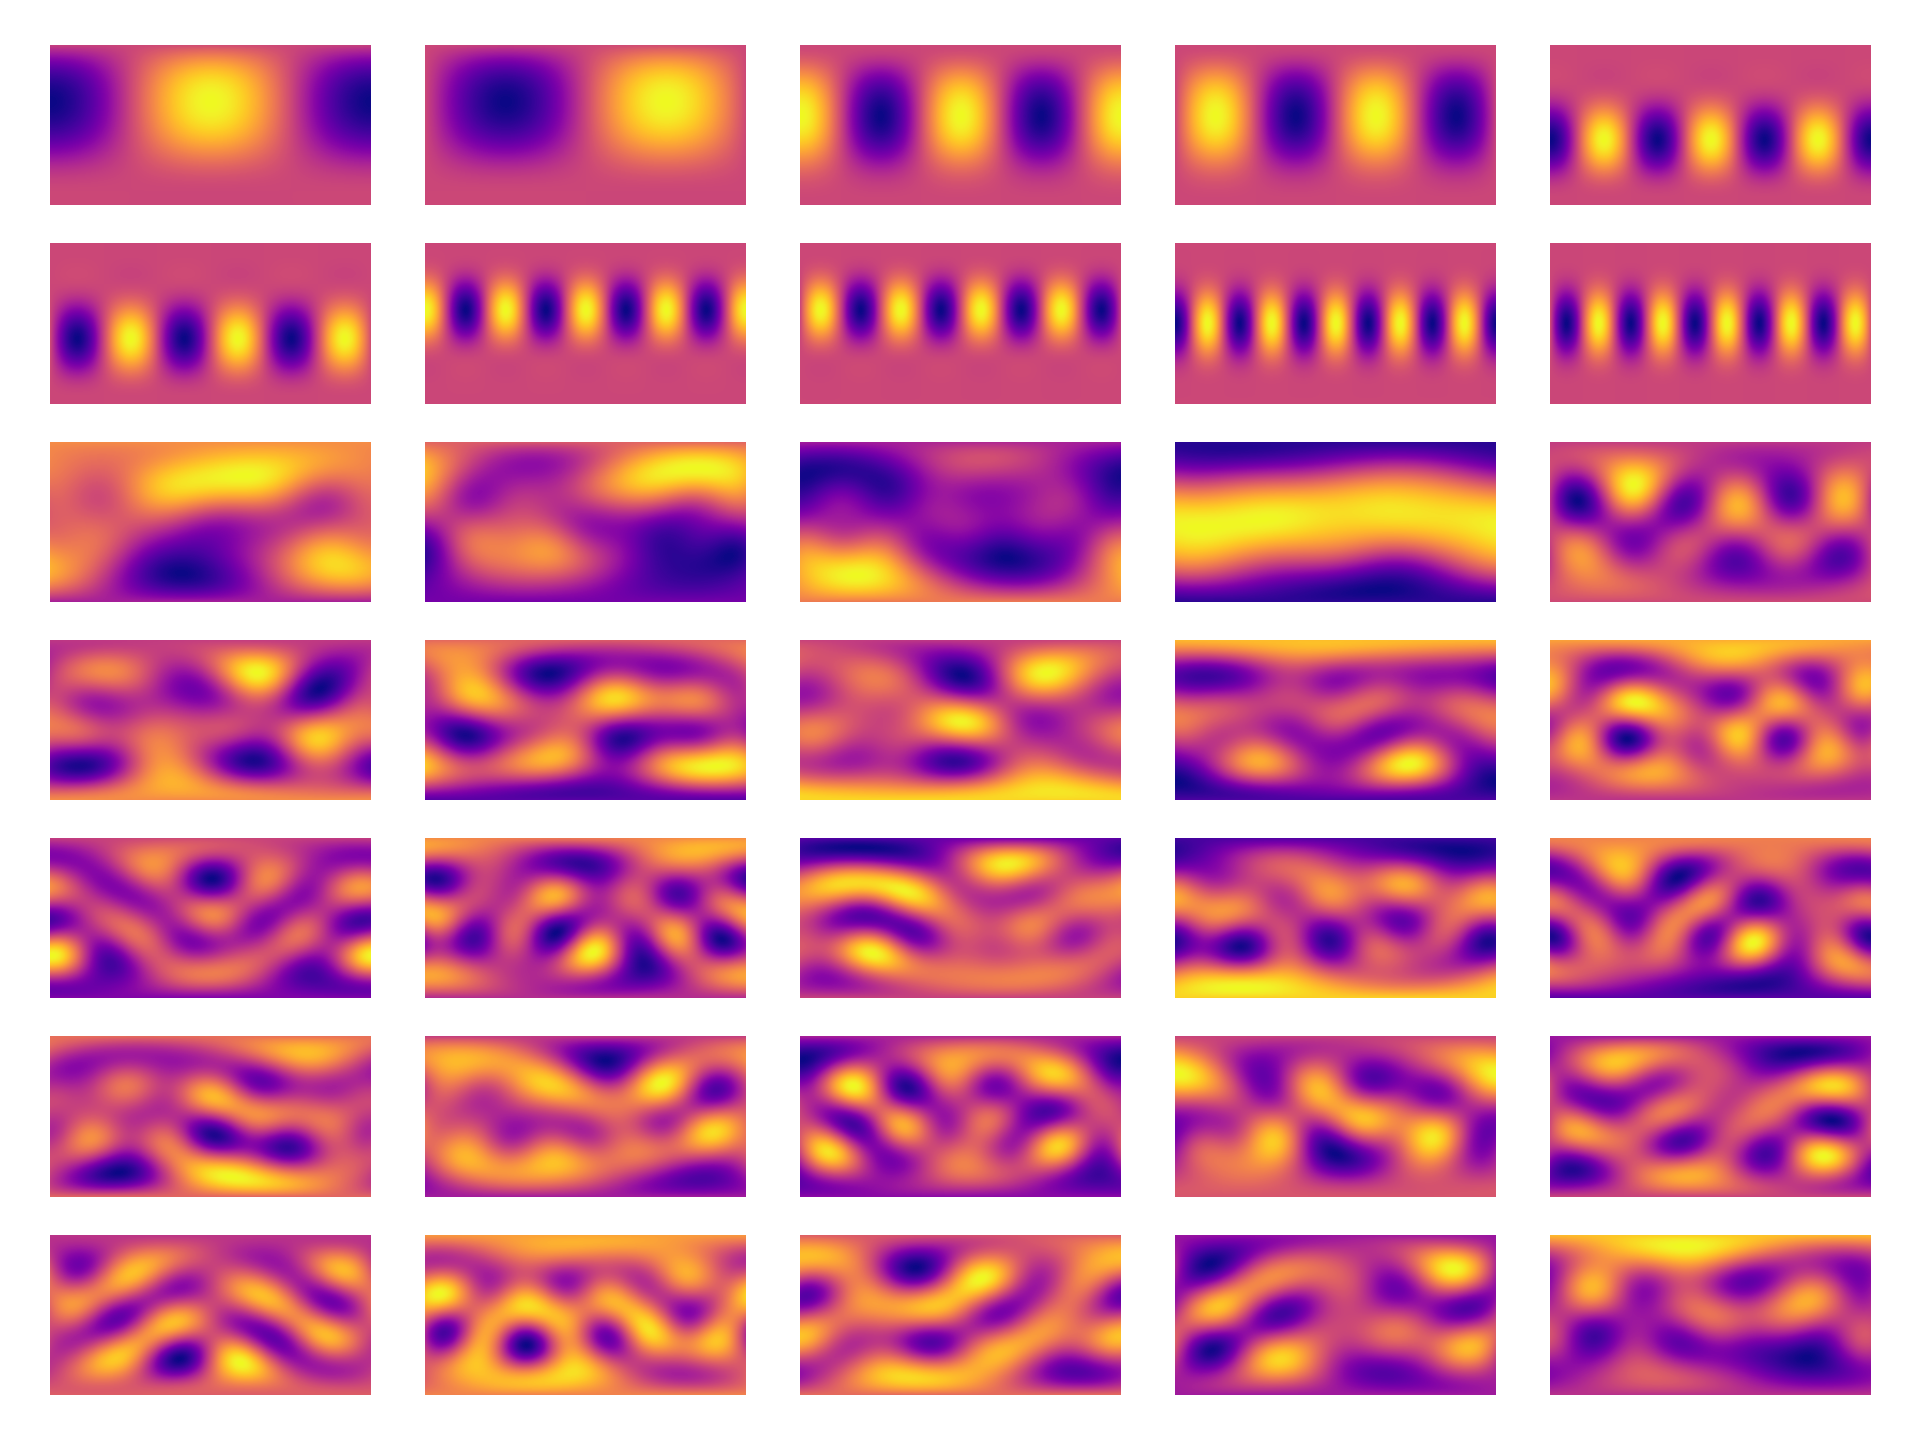
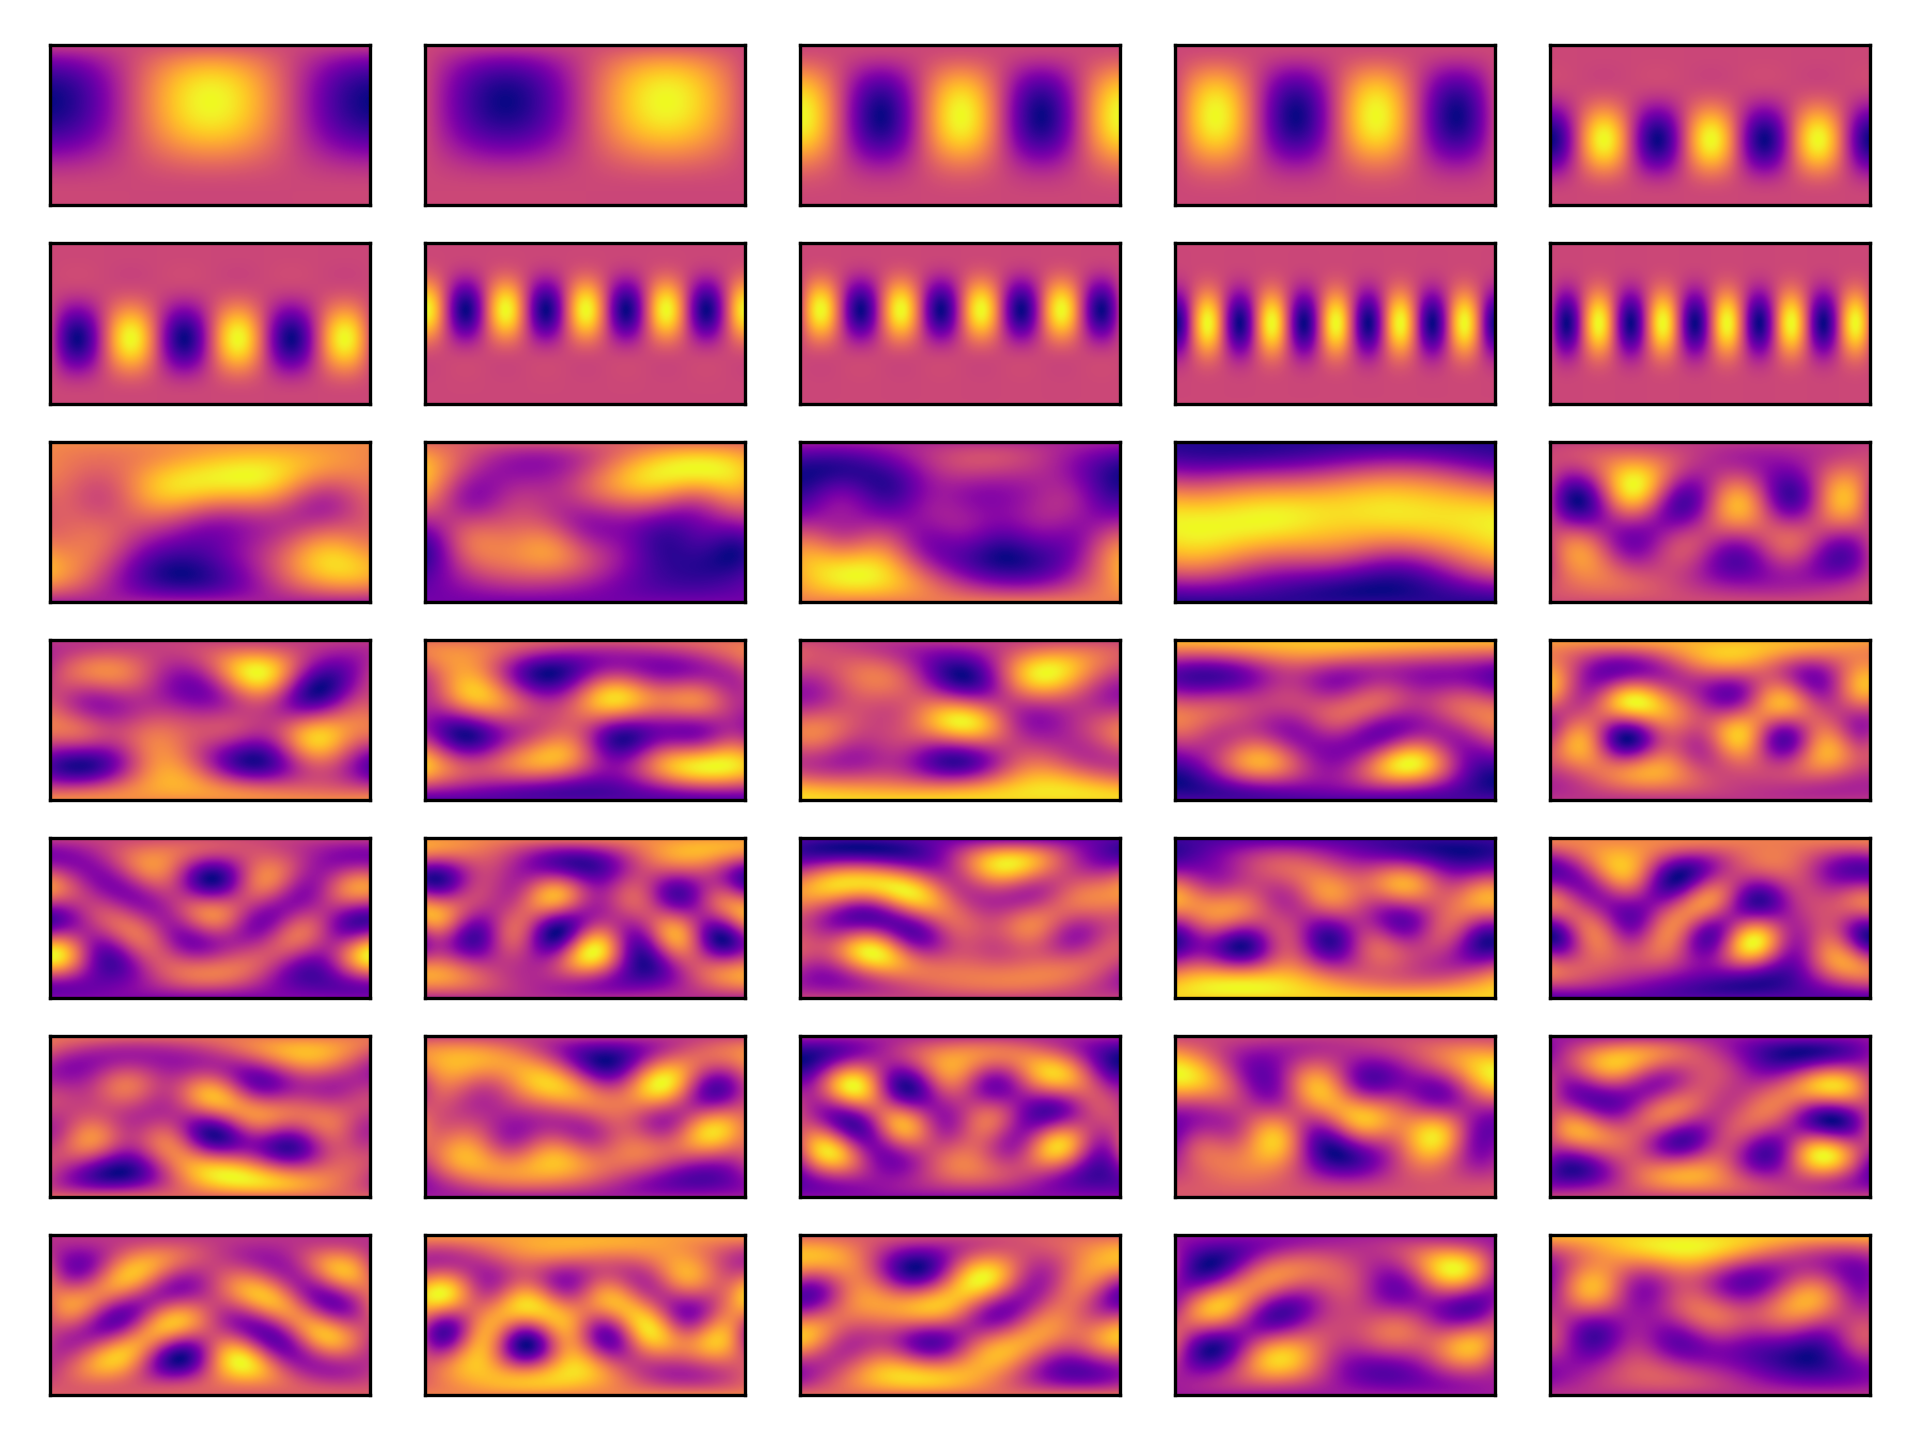
removed larged animations, added obliquity, and cleaned up create_rv some more

diff --git a/create_emaps.py b/create_emaps.py
@@ -132,6 +132,7 @@ def emap_plot(star, indiv_path=None, proj='rect', other_fname=None,
                 plt.colorbar()
             plt.tight_layout()
             plt.savefig(f"{indiv_path}/{fname}", dpi = 300, transparent=transparent)
+            plt.close(temp_fig)
             pass
         else:
             star.map.show(theta=0,projection=proj,rv=False,file=f"{indiv_path}/{fname}",
@@ -140,12 +141,10 @@ def emap_plot(star, indiv_path=None, proj='rect', other_fname=None,
         star.map.show(theta=0,projection=proj,rv=False,
                         dpi=300,transparent=transparent, colorbar=colorbar)
     
-    plt.close("all")
-    
 
 def create_emaps(star, eigeny, emaps_path=None, proj='rect', 
-                 transparent=False, labels=False, individual=True,
-                 colorbar=True, smooth=True):
+                 transparent=False, labels=False, border=False, 
+                 individual=True, colorbar=True, smooth=True):
     
     """
     Function generates various plots associated with the eigenmaps (emaps)  
@@ -176,6 +175,9 @@ def create_emaps(star, eigeny, emaps_path=None, proj='rect',
 
     labels: boolean (optional)
         Wether to add axis and title labels to overall plot.  Default to False
+
+    border: boolean (optional)
+        Wether to add border around each axis plot.  Default to False
 
     indiviudal: boolean (optional)
         If True, will generate individual emap plots along with overall.  Default is True
@@ -246,10 +248,19 @@ def create_emaps(star, eigeny, emaps_path=None, proj='rect',
             emap_plot(star, indiv_path=indiv_path, proj=proj, other_fname=f"emap_{j}", 
                  transparent=transparent, colorbar=colorbar, smooth=smooth)
             
-            
-        ax.get_xaxis().set_ticks([])
-        ax.get_yaxis().set_ticks([])
-        ax.set_frame_on(False)
+
+        if border:
+            ax.set_xticklabels([])
+            ax.set_yticklabels([])
+            ax.tick_params(left=False, bottom=False)
+        else:
+            ax.axis('off')
+
+        # ax.get_xaxis().set_ticks([])
+        # ax.get_yaxis().set_ticks([])
+
+        # if not border:
+        #     ax.set_frame_on(False)
 
     if labels:
         fig.supxlabel("Longitude [deg]")
@@ -276,8 +287,8 @@ def create_emaps(star, eigeny, emaps_path=None, proj='rect',
 
     return None
 
-def create_eflux(star, eigeny, emaps_path=None,
-                 transparent=False, labels=False, individual=True):
+def create_eflux(star, eigeny, emaps_path=None, transparent=False, 
+                 labels=False, border=False, individual=True):
 
     """
     Function generates overall and individual light curve (lc) plots for each eigenmap (emap)  
@@ -304,6 +315,9 @@ def create_eflux(star, eigeny, emaps_path=None,
 
     labels: boolean (optional)
         Wether to add axis and title labels to overall plot.  Default to False
+
+    border: boolean (optional)
+        Wether to add border around each axis plot.  Default to False
 
     indiviudal: boolean (optional)
         If True, will generate individual emap plots along with overall.  Default is True.
@@ -339,7 +353,13 @@ def create_eflux(star, eigeny, emaps_path=None,
         ax = axes[yloc, xloc]
         
         ax.plot(theta, star.map.flux(theta=theta).eval())
-        ax.axis('off')
+
+        if border:
+            ax.set_xticklabels([])
+            ax.set_yticklabels([])
+            ax.tick_params(left=False, bottom=False)
+        else:
+            ax.axis('off')
 
         if individual:
             if emaps_path:
@@ -356,8 +376,8 @@ def create_eflux(star, eigeny, emaps_path=None,
     se(f"\tGenerating overall light curve plot", dp = dpm)
 
     if labels:
-        fig.supxlabel("Longitude [deg]")
-        fig.supylabel("Latitude [deg]")
+        fig.supxlabel("Angle of rotation [degrees]")
+        fig.supylabel("Flux [normalized]")
         fig.suptitle(f"Eigenmaps - Rotational Light Curves")
     
     fig.tight_layout()